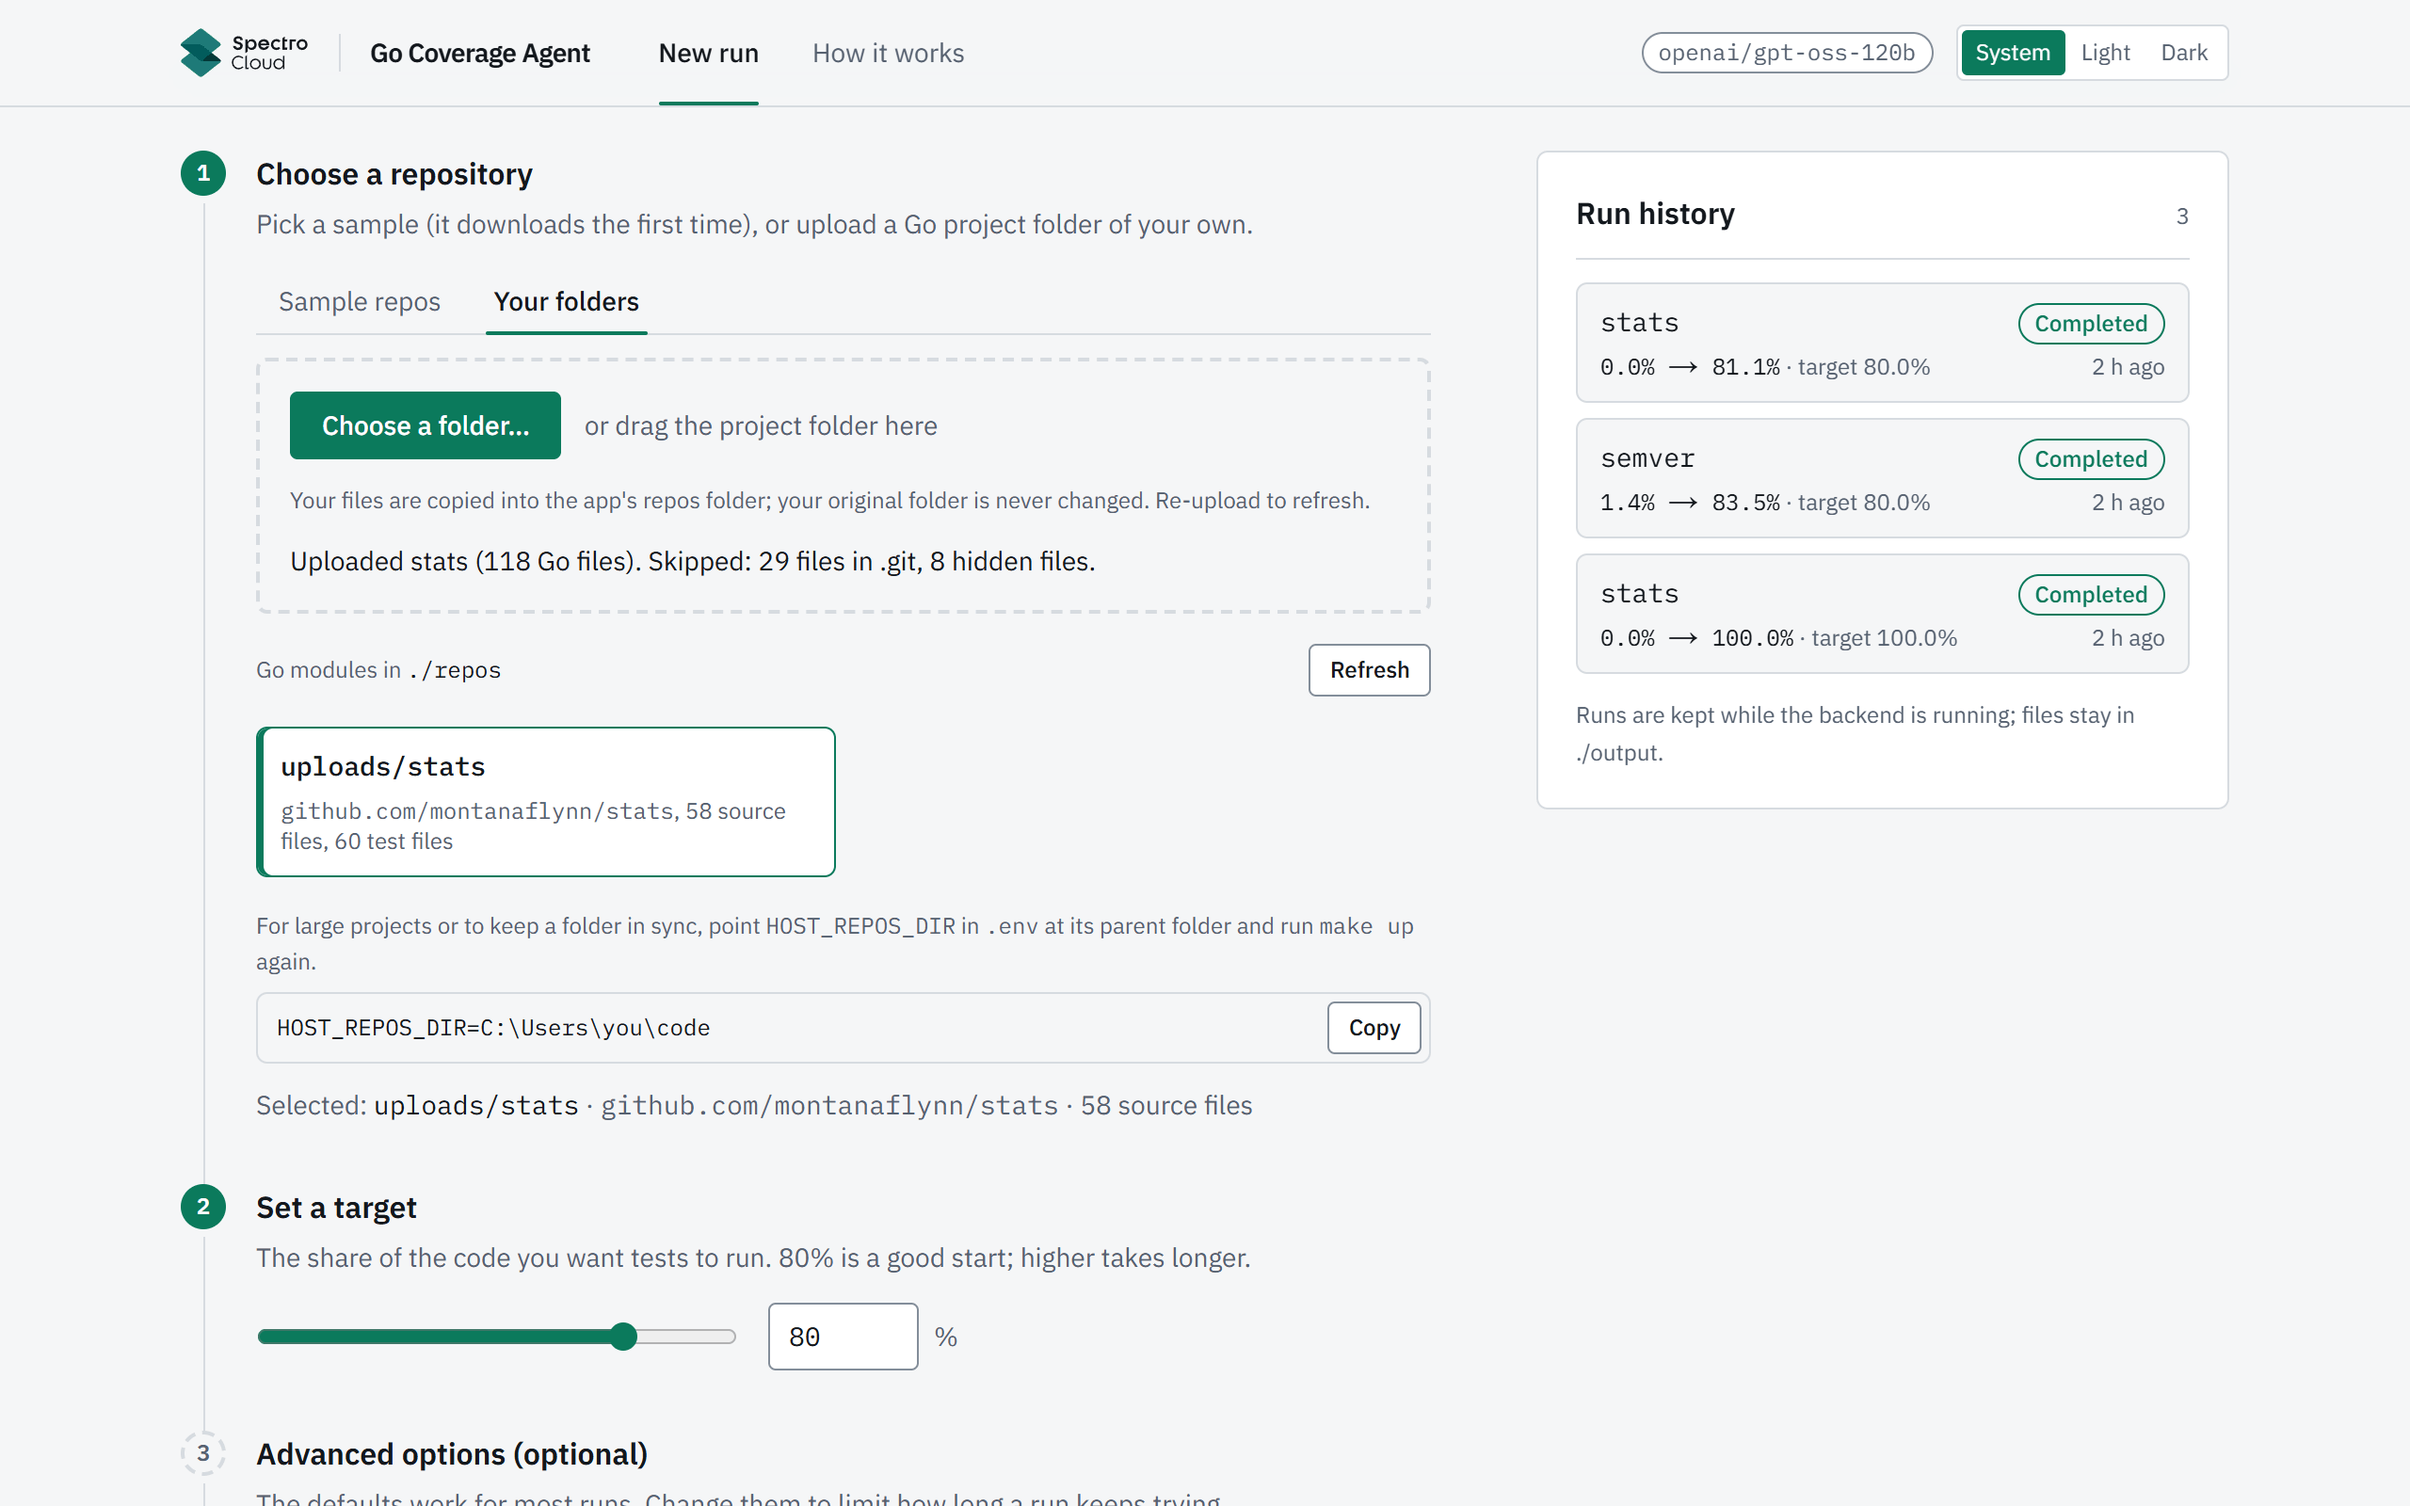
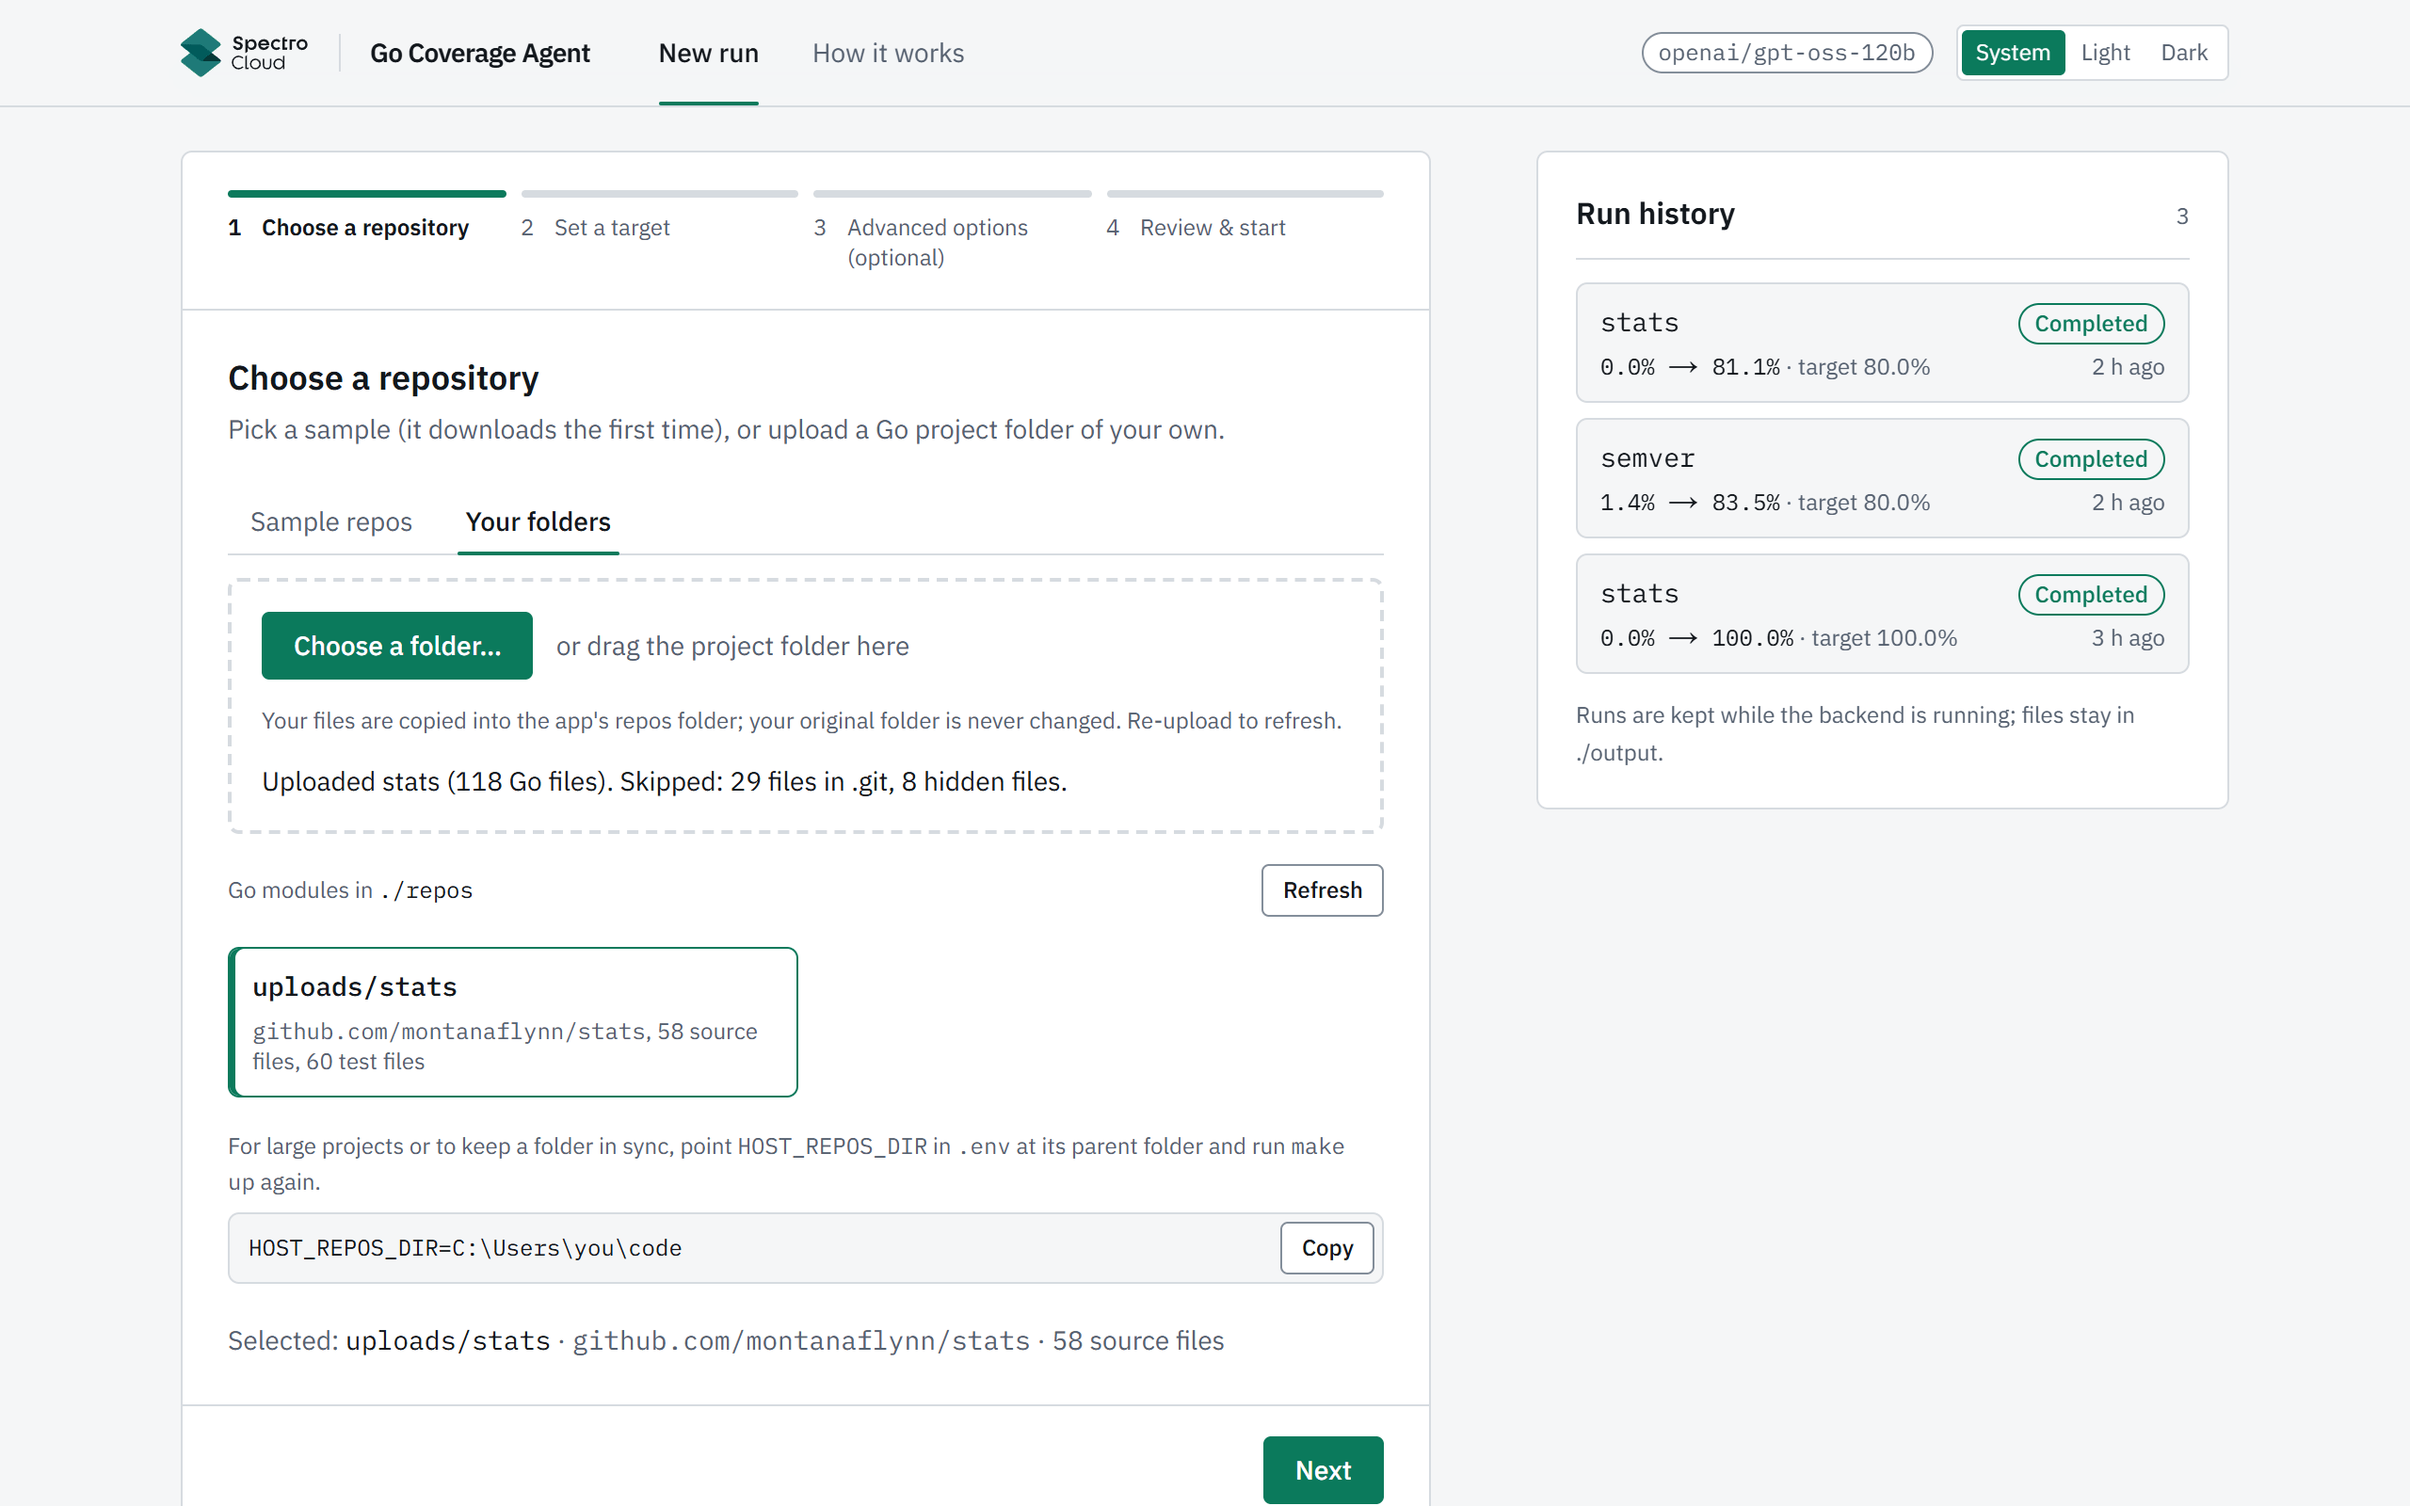
docs: retake the New run screenshots for the wizard

diff --git a/README.md b/README.md
@@ -20,8 +20,9 @@ docker compose up --build
 ```
 
 Open http://localhost:3000 (or `http://localhost:${FRONTEND_PORT}` if you changed it), click the
-**montanaflynn/stats** card under **Sample repos**, then **Start**. The target defaults to 80%.
-The New run page walks you through four numbered steps: choose a repository, set a target, optional advanced options, start the run.
+**montanaflynn/stats** card under **Sample repos**, then follow the four steps: **Next** to set a target (80% by default),
+**Next** or **Skip** past the optional advanced options, then **Start** on the review step.
+The New run page shows one step at a time: choose a repository, set a target, optional advanced options, review & start.
 
 **Model:** `openai/gpt-oss-120b` on Groq (fallback: `openai/gpt-oss-20b`, set `GROQ_MODEL` in `.env`). The model name is also
 reported by `GET /api/health` and shown in the UI.
@@ -175,18 +176,18 @@ I ran the system end to end, spotted these problems, and decided the fixes. Clau
 <table>
 <tr>
 <td valign="top" width="50%">
-<a href="docs/screenshots/gallery-setup.png"><img src="docs/screenshots/gallery-setup.png" width="100%" alt="Setup page with the header, the Sample repos tab with montanaflynn/stats selected, and the Run history panel"></a>
-<br><b>Setup page</b><br>The header, a chart of a measured run (0% to 100% in 22 rounds), step 1 with the six sample repos (<code>montanaflynn/stats</code> selected) and the Run history panel with three past runs.
+<a href="docs/screenshots/gallery-setup.png"><img src="docs/screenshots/gallery-setup.png" width="100%" alt="New run page at step 1 of the wizard: the header, the four-step stepper, the Sample repos tab with montanaflynn/stats selected, and the Run history panel"></a>
+<br><b>New run, step 1</b><br>The header, a chart of a measured run (0% to 100% in 22 rounds), and the wizard on step 1 of 4: the stepper above the six sample repos (<code>montanaflynn/stats</code> selected), beside the Run history panel with three past runs.
 </td>
 <td valign="top" width="50%">
-<a href="docs/screenshots/gallery-runs-dark.png"><img src="docs/screenshots/gallery-runs-dark.png" width="100%" alt="The same setup page and Run history panel in the dark theme"></a>
-<br><b>Dark theme</b><br>The same setup page in the dark theme: stats 0.0% to 81.1%, semver 1.4% to 83.5% and stats 0.0% to 100.0% in Run history.
+<a href="docs/screenshots/gallery-runs-dark.png"><img src="docs/screenshots/gallery-runs-dark.png" width="100%" alt="The review step of the New run wizard and the Run history panel in the dark theme"></a>
+<br><b>Review &amp; start, dark theme</b><br>Step 4 of 4: the chosen repository, the 80% target and default advanced options, each with an Edit link, then Start with the token budget beside it. Run history shows stats 0.0% to 81.1%, semver 1.4% to 83.5% and stats 0.0% to 100.0%.
 </td>
 </tr>
 <tr>
 <td valign="top" width="50%">
-<a href="docs/screenshots/gallery-folders.png"><img src="docs/screenshots/gallery-folders.png" width="100%" alt="Your folders tab after uploading a copy of stats: the drop area, the upload result, the uploaded module selected and the HOST_REPOS_DIR note"></a>
-<br><b>Your folders</b><br>After uploading a local copy of <code>montanaflynn/stats</code>: "Uploaded stats (118 Go files). Skipped: 29 files in .git, 8 hidden files.", with <code>uploads/stats</code> selected under Go modules in <code>./repos</code> and the one-line <code>HOST_REPOS_DIR</code> note below it.
+<a href="docs/screenshots/gallery-folders.png"><img src="docs/screenshots/gallery-folders.png" width="100%" alt="Step 1 of the New run wizard on the Your folders tab after uploading a copy of stats: the drop area, the upload result, the uploaded module selected and the HOST_REPOS_DIR note"></a>
+<br><b>Your folders</b><br>Step 1 on the Your folders tab, after uploading a local copy of <code>montanaflynn/stats</code>: "Uploaded stats (118 Go files). Skipped: 29 files in .git, 8 hidden files.", with <code>uploads/stats</code> selected under Go modules in <code>./repos</code> and the one-line <code>HOST_REPOS_DIR</code> note below it. The upload selects the folder; Next moves on.
 </td>
 <td valign="top" width="50%">
 <a href="docs/screenshots/gallery-live.png"><img src="docs/screenshots/gallery-live.png" width="100%" alt="Run in progress at 19.9 percent with a Cancel button and the Activity list ending in a running item"></a>
@@ -228,8 +229,8 @@ I ran the system end to end, spotted these problems, and decided the fixes. Clau
 <table>
 <tr>
 <td valign="top" width="33%">
-<a href="docs/screenshots/gallery-setup-mobile.png"><img src="docs/screenshots/gallery-setup-mobile.png" width="100%" alt="Setup page on a 390 pixel wide phone screen"></a>
-<br><b>New run on a phone</b><br>The header, the measured-run chart and step 1 at 390 px wide.
+<a href="docs/screenshots/gallery-setup-mobile.png"><img src="docs/screenshots/gallery-setup-mobile.png" width="100%" alt="New run page at step 1 on a 390 pixel wide phone screen"></a>
+<br><b>New run on a phone</b><br>The header, the measured-run chart and the wizard at 390 px wide: "Step 1 of 4 · Choose a repository" with a progress bar, and Next pinned to the bottom of the box.
 </td>
 <td valign="top" width="33%">
 <a href="docs/screenshots/gallery-mobile.png"><img src="docs/screenshots/gallery-mobile.png" width="100%" alt="Run page on a 390 pixel wide phone screen"></a>
